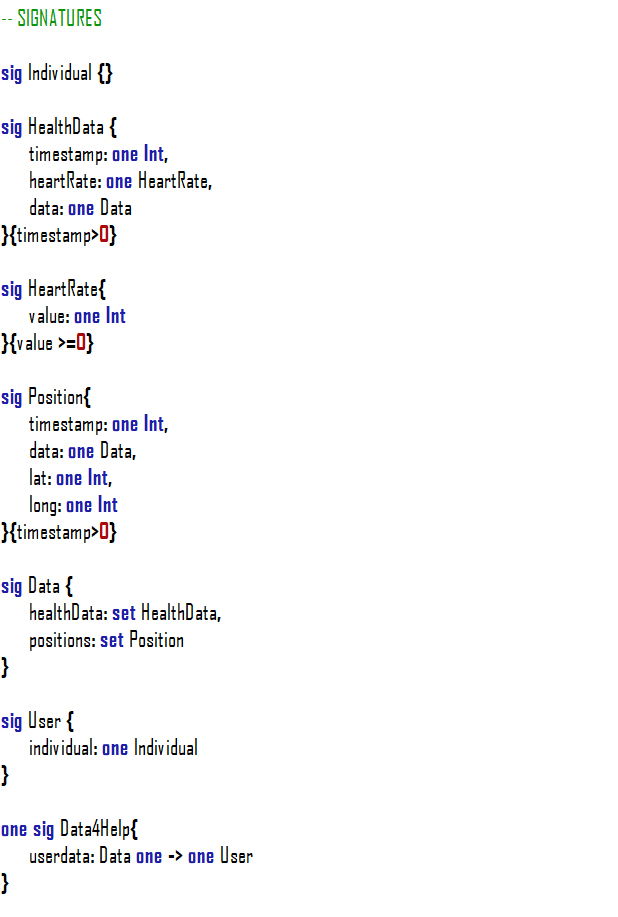
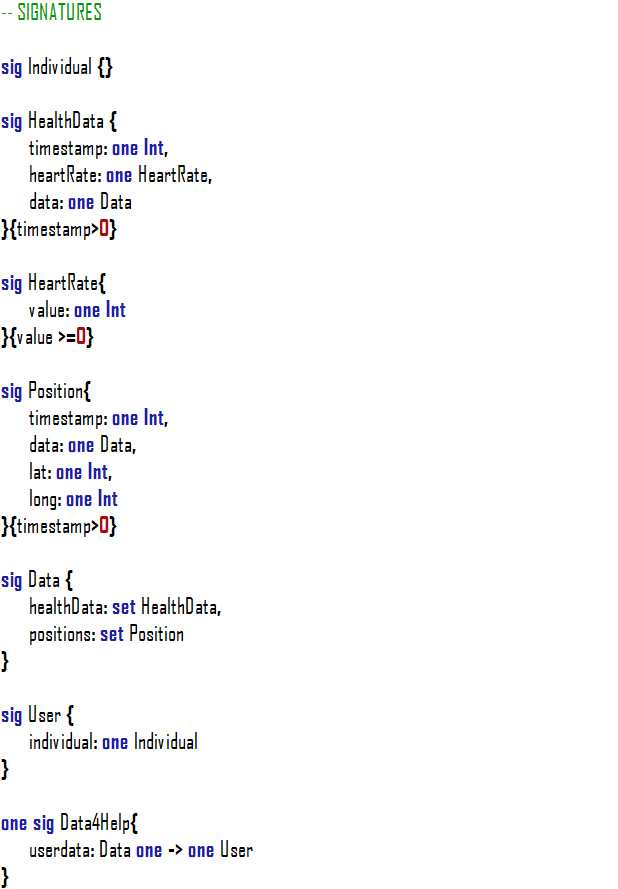
Images Review

diff --git a/RASD/4.FormalAnalysisUsingAlloy/FormalAnalysisUsingAlloy.tex b/RASD/4.FormalAnalysisUsingAlloy/FormalAnalysisUsingAlloy.tex
@@ -4,7 +4,7 @@
 \chapter{Formal Analysis using Alloy}
 \thispagestyle{fancy}
 	\section{Data4Help}
-	\image {10cm} {Alloy/Data4Help/AlloyData4Help1.jpg} {} {AlloyData4Help1}
+	\image {20cm} {Alloy/Data4Help/AlloyData4Help1.jpg} {} {AlloyData4Help1}
 	\image {20cm} {Alloy/Data4Help/AlloyData4Help2.jpg} {} {AlloyData4Help2}
 	\image {20cm} {Alloy/Data4Help/AlloyData4Help3.jpg} {} {AlloyData4Help3}
 	\image {20cm} {Alloy/Data4Help/AlloyData4Help4.jpg} {} {AlloyData4Help4}
@@ -14,7 +14,7 @@
 	\image {20cm} {Alloy/Data4Help/Data4HelpWorld.png} {} {Data4HelpWorld}
 
 	\section{AutomatedSOS}
-	\image {17cm} {Alloy/AutomatedSOS/AlloyAutomatedSOS1.jpg} {} {AlloyAutomatedSOS1}
+	\image {20cm} {Alloy/AutomatedSOS/AlloyAutomatedSOS1.jpg} {} {AlloyAutomatedSOS1}
 	\image {20cm} {Alloy/AutomatedSOS/AlloyAutomatedSOS2.jpg} {} {AlloyAutomatedSOS2}
 	\image {20cm} {Alloy/AutomatedSOS/AlloyAutomatedSOS3.jpg} {} {AlloyAutomatedSOS3}
 	\image {20cm} {Alloy/AutomatedSOS/AlloyAutomatedSOS4.jpg} {} {AlloyAutomatedSOS4}
